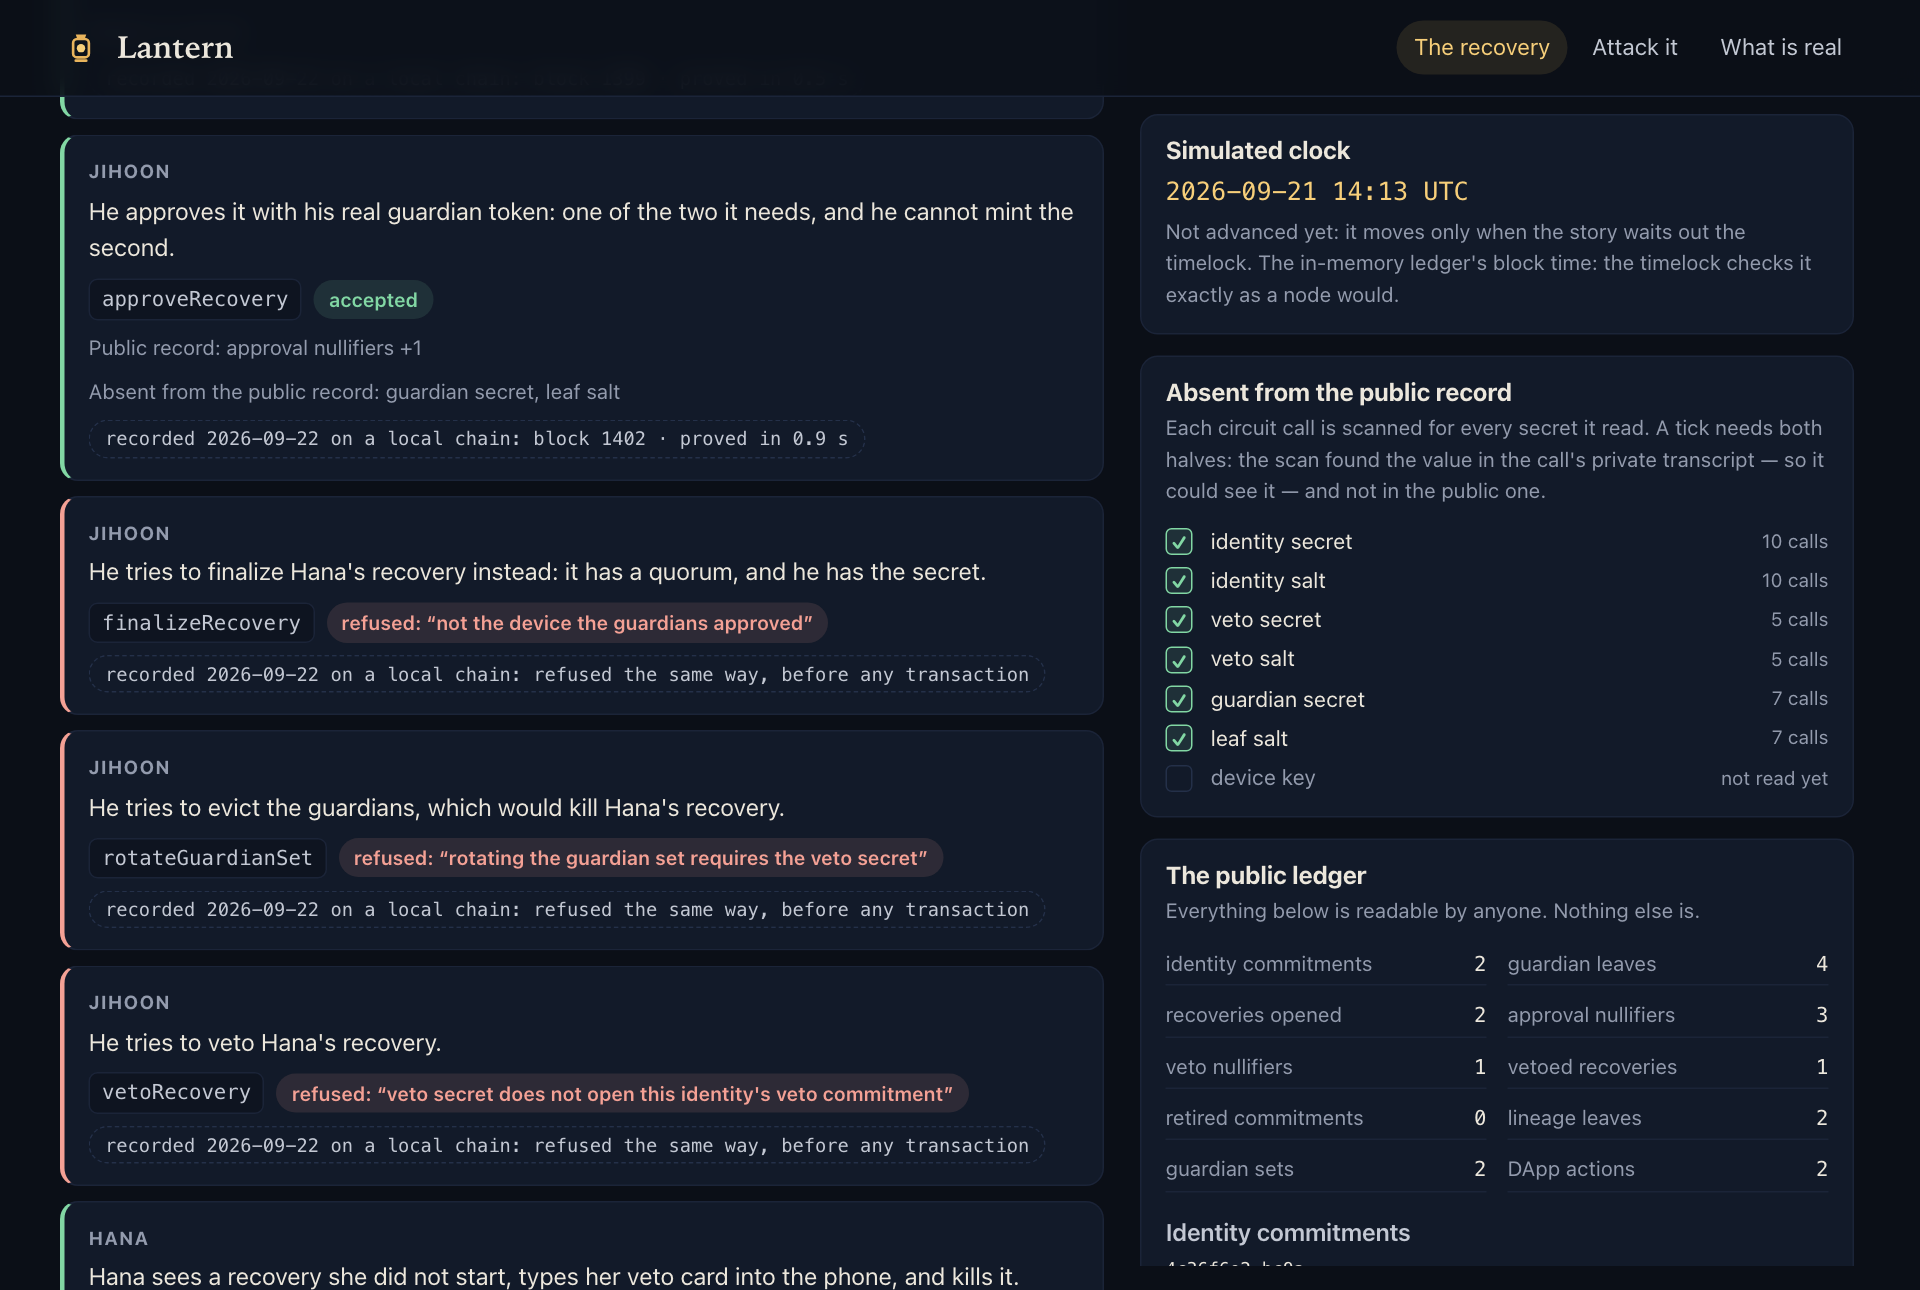
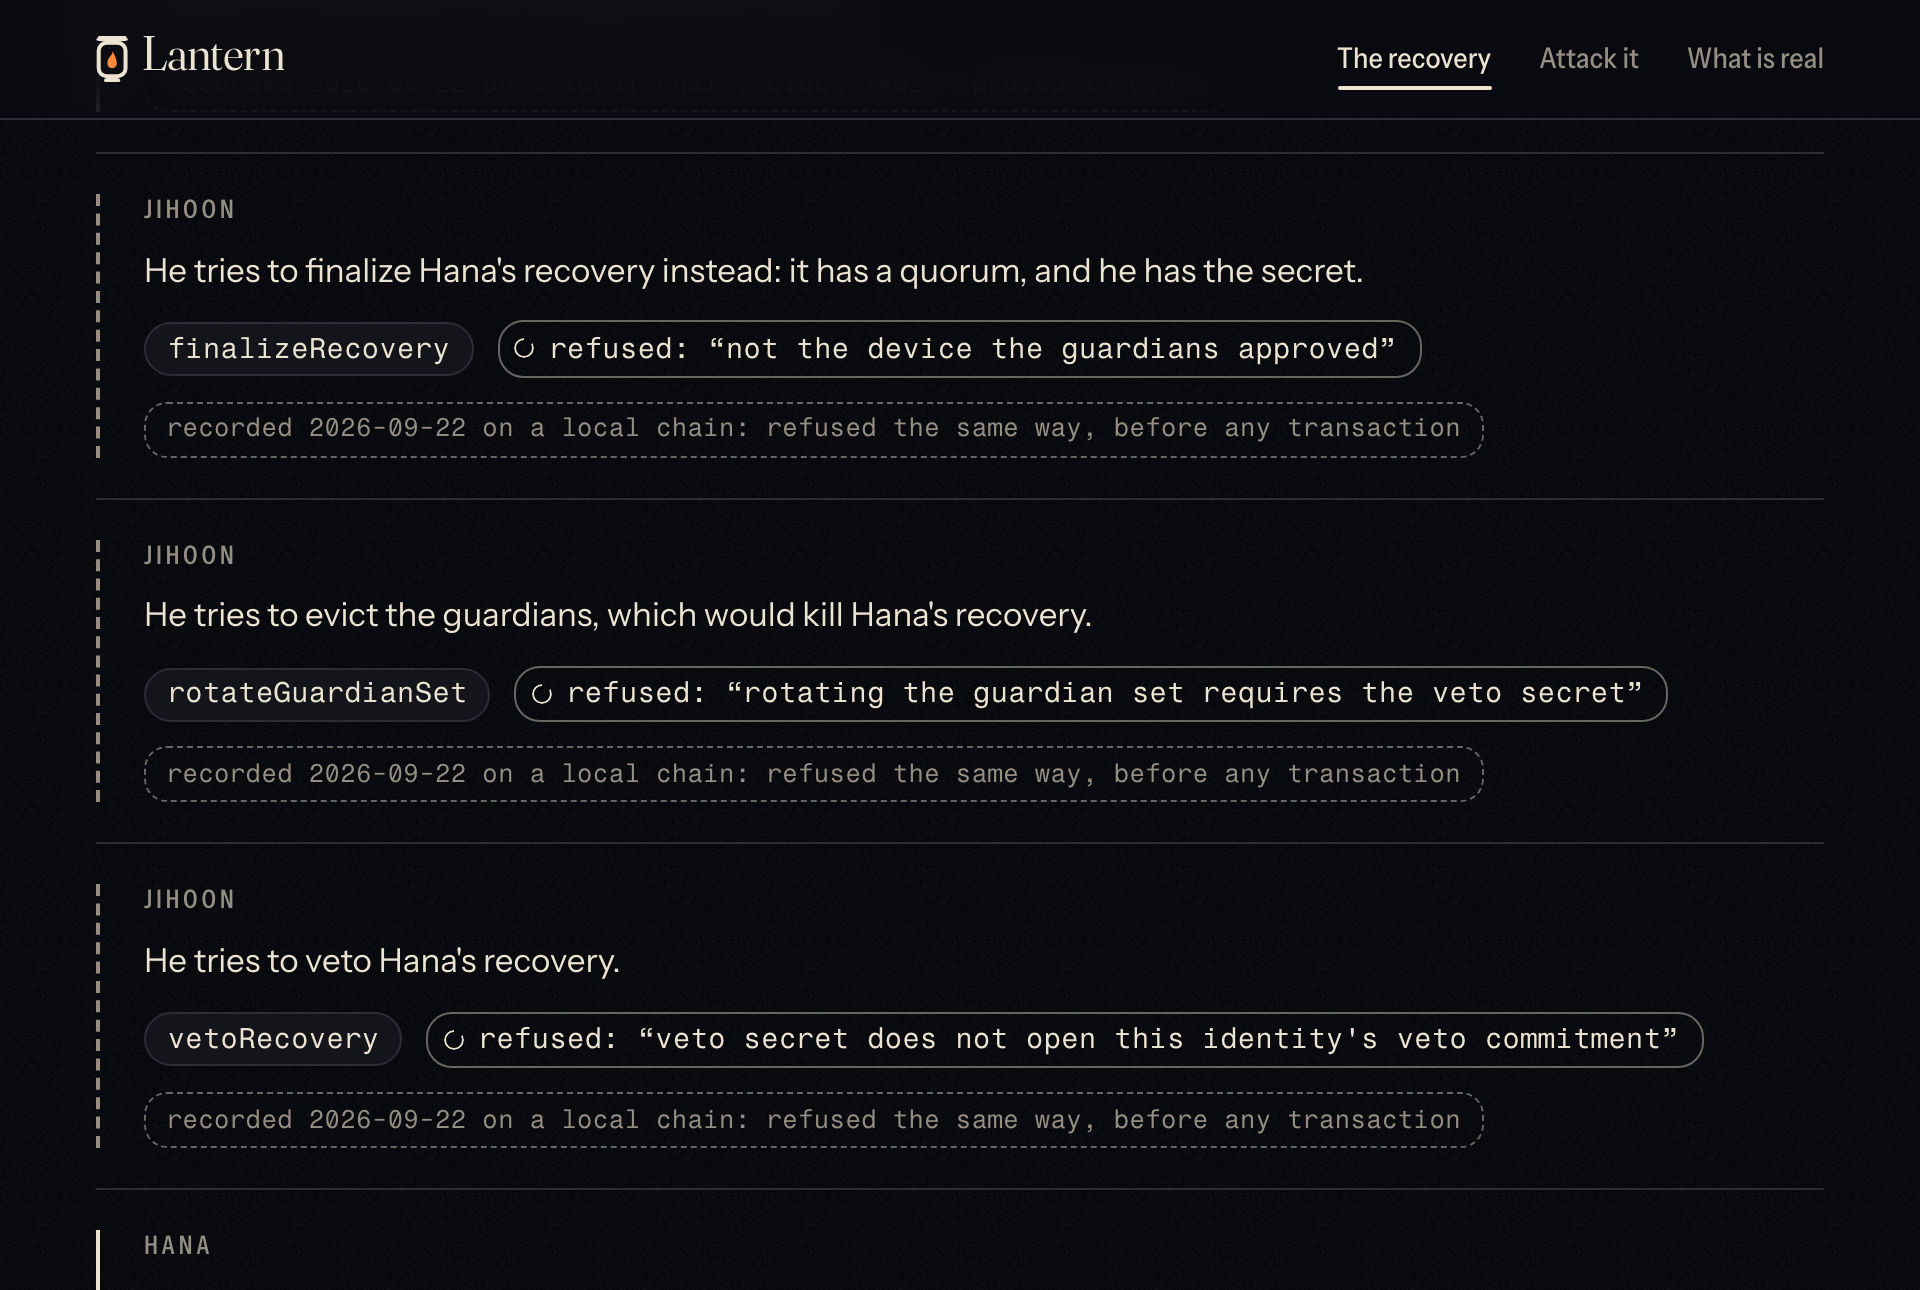
README: the redesigned demo, 74 browser tests, the Passport note and the brand kit

diff --git a/README.md b/README.md
@@ -16,6 +16,8 @@ This project is built on the Midnight Network.
 | **Threat model** | [SECURITY.md](SECURITY.md) |
 | **On Midnight's public test network** | [the shipped contract on Preprod](https://preprod.midnightexplorer.com/contracts/bfd4fa7780902551422b932e7acf8b61fc077dba21afb1be3df1090a25b352c9) · [check it yourself](#on-midnights-public-test-network) |
 | **Local-chain records** | [`deployments/`](deployments/) · [`docs/spikes.md`](docs/spikes.md) |
+| **Prior art, posted upstream** | [a note on Passport's total-loss recovery, issue #20](https://github.com/midnightntwrk/passport/issues/20#issuecomment-5821240645) · [the note](docs/upstream/passport-c14-prior-art.md) |
+| **Brand** | [lantern-midnight.vercel.app/brand](https://lantern-midnight.vercel.app/brand) · [`brand/README.md`](brand/README.md) |
 
 ## In one minute
 
@@ -43,7 +45,7 @@ The official criteria and their weights, and where each is evidenced:
 | Criterion | Weight | Where to look |
 |---|---:|---|
 | Engineering & Implementation | 40% | [`contracts/src/lantern.compact`](contracts/src/lantern.compact) and [`host.compact`](contracts/src/host.compact); [How Lantern uses Midnight](#how-lantern-uses-midnight): the dual ledger, private state and each primitive by file; `npm run compile:check` |
-| Quality Assurance & Reliability | 15% | 196 tests in [`test/`](test/), including a leak scanner with a positive control and tests of the committed chain records; 25 browser tests, run in Chromium in CI and in WebKit and Firefox before release; CI on Node 20, 22 and 24; [21 defects found and fixed](#found-and-fixed-in-review) |
+| Quality Assurance & Reliability | 15% | 196 tests in [`test/`](test/), including a leak scanner with a positive control and tests of the committed chain records; 74 browser tests, run in Chromium in CI and in WebKit and Firefox before release; CI on Node 20, 22 and 24; [21 defects found and fixed](#found-and-fixed-in-review) |
 | Product & Vision | 15% | [Who it is for](#who-it-is-for-and-why-now), [Roadmap](#roadmap), [Limitations](#limitations) |
 | User Experience & Design | 15% | [The hosted demo](https://lantern-midnight.vercel.app/demo): every accept and refusal comes from the compiled contract, and each contract call shows how the same step went in the local-chain run. Below the story, [try to break it](https://lantern-midnight.vercel.app/demo#break): pick an attack, such as flipping a byte of a share, and the contract refuses it in its own words. Deep links (`/demo?beat=7`), a phone layout and automated accessibility checks |
 | Communication | 10% | This README and [SECURITY.md](SECURITY.md) |
@@ -79,8 +81,8 @@ npm run web:install
 npm run web                                 # the dev server, http://localhost:5173 (Node 22.12 or later); runs until Ctrl-C
 npm run web:build && npm run web:preview    # or the production build with the hosted site's headers, http://localhost:4319
 npx --prefix web playwright install chromium   # once, before the first browser-test run; on Linux or WSL add --with-deps
-npm run web:e2e                             # the 25 browser tests in Chromium, at desktop size and as an emulated Pixel 7
-npx --prefix web playwright install webkit firefox && npm run e2e:cross --prefix web   # the same 25 in WebKit, as an emulated iPhone 15, and in Firefox
+npm run web:e2e                             # the 74 browser tests in Chromium, at desktop size and as an emulated Pixel 7
+npx --prefix web playwright install webkit firefox && npm run e2e:cross --prefix web   # the same 74 in WebKit, as an emulated iPhone 15, and in Firefox
 ```
 
 **Real proofs on a local chain** (Docker, Node 24 or later, compact 0.31.1):
@@ -374,7 +376,7 @@ All 21 are in [SECURITY.md §7](SECURITY.md#7-found-and-fixed-in-review).
 
 **Korea.** South Korea's amended Personal Information Protection Act was promulgated on 10 March 2026 and took effect on 11 September 2026. The [IAPP](https://iapp.org/news/a/south-korea-overhauls-pipa-and-ties-fines-to-ceo-accountability) reports that it "introduces a penalty ceiling of 10% of total turnover" and "places personal supervisory liability on the CEO"; [Hunton](https://www.hunton.com/privacy-and-cybersecurity-law-blog/south-korea-amends-privacy-law-to-authorize-fines-of-up-to-10-of-total-revenue) describes fines "of up to 10% of a company's total revenue in certain high-severity data breach cases", subject to transition rules. *Our reading, not legal advice:* a public list of who can recover whose identity is personal information about named people and their relationships. A guardian design that stores it in the clear publishes it to everyone, permanently. Lantern keeps it off the public record by construction, and `npm run attack` checks that it does.
 
-**Midnight's own direction.** Midnight's Passport project decided in 2026/07 to use BUSS (ANARKey) stateless guardians with paper keys for total-loss recovery ([component C14](https://github.com/midnightntwrk/passport/blob/main/docs/plans/components/C14-total-loss-recovery-flow.md)). Lantern is a different point in the same space: an on-chain guardian set that stays hidden, a recovery that proves its own correctness in the circuit, and a veto credential that no guardian holds.
+**Midnight's own direction.** Midnight's Passport project decided in 2026/07 to use BUSS (ANARKey) stateless guardians with paper keys for total-loss recovery ([component C14](https://github.com/midnightntwrk/passport/blob/main/docs/plans/components/C14-total-loss-recovery-flow.md)). Lantern is a different point in the same space: an on-chain guardian set that stays hidden, a recovery that proves its own correctness in the circuit, and a veto credential that no guardian holds. We set out the comparison in [a comment on Passport issue #20](https://github.com/midnightntwrk/passport/issues/20#issuecomment-5821240645) ([the note](docs/upstream/passport-c14-prior-art.md)).
 
 ## Roadmap
 
@@ -413,7 +415,8 @@ src/attack/             the attack engine and the per-field leak classification
 src/demo/               the story: 74 steps, run unchanged by the simulator, the browser and the local chain
 src/host/               the canonical host snapshot the committee signs
 test/                   196 tests
-web/                    the browser demo (React and Vite) and its Playwright tests
+web/                    the site (React and Vite): the landing's three.js lantern, the browser demo, /brand, and the Playwright tests
+brand/                  the brand guide; the kit's files are in web/public/brand-kit/
 devnet/                 the chain runner, local and on Preprod: flavour, sponsor, verify, bench and the shipped run
 deployments/            the records of the local-chain runs, the Preprod run and the bench
 scripts/                compile, cost, attack, story and the README's generated facts
